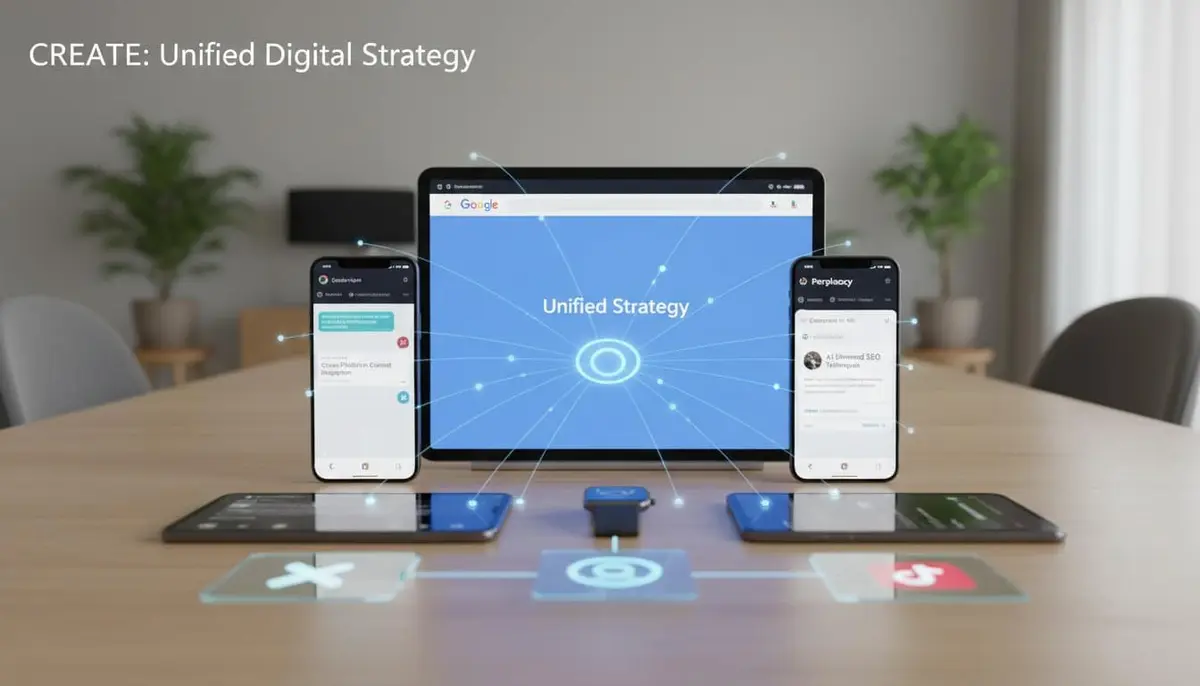
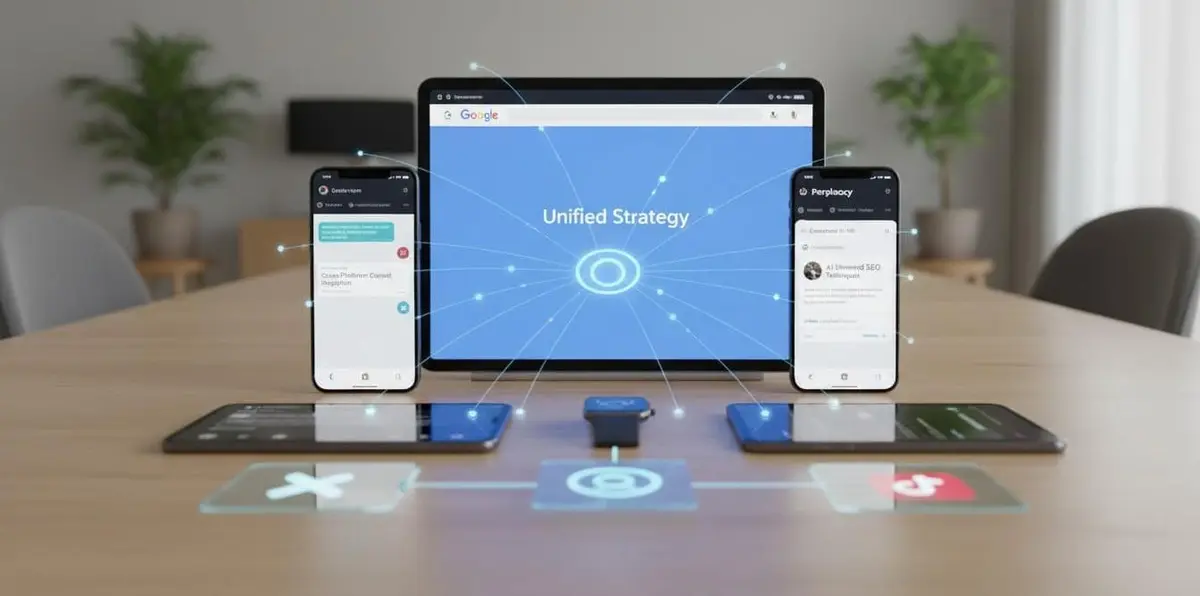
Fix two AI-generated images: a burned-in prompt, and broken Spanish
Swapping the chatbot image turned into an audit, because the candidates
were worse than the picture being replaced.

Every image in the media library matching that post is from one batch of
AI generations, and four of the five carry visible defects. The one in
use is a tablet mockup reading "Hello! How can bo help?" beside "Hola!
/Como pudo ayodrarte" and a line of garbled Japanese. Of the rest, one
is a wireframe robot, one repeats the same broken Spanish, and two have
the prompt label still burned across the top.

Misspelt Spanish on a multilingual SEO site is a worse advert than no
photograph at all, so conversational-ai-chatbots-business now has no
entry in the map and falls back to PostArt, which is exactly the case
that fallback exists for. Reversible in one line when a real photograph
exists, and the file records why rather than leaving a gap.

Checking the batch found a second live page with the same defect.
search-everywhere-strategy carried "CREATE: Unified Digital Strategy"
across its top corner, on every visit, for a post about search strategy.
The label sits on a plain wall above the subject, so it crops off: a new
optional cropTop on BlogImage, applied by fetch-legacy-images.mjs before
the resize, so the derivative stays rebuildable from the source rather
than being a hand-edited file nobody can regenerate. 1344x768 to
1200x596, and the recorded height corrected to match.

The other six images from that batch were checked the same way, top
[…]

diff --git a/mb-master-revamp/site/lib/blog-images.ts b/mb-master-revamp/site/lib/blog-images.ts
@@ -7,10 +7,12 @@
  * post with no entry here, which is what a newly written post gets until
  * a picture is chosen for it.
  *
- * 57 entries for 56 posts: competitor-analysis-traffic-checklist is a
- * hand-built page rather than a post (HAND_BUILT_SLUGS in lib/posts.ts),
- * but it is a cluster pillar, so the journal index renders it beside the
- * others and it needs a picture on the same terms.
+ * 56 entries for 56 posts, which is a coincidence rather than a rule.
+ * competitor-analysis-traffic-checklist is a hand-built page rather than
+ * a post (HAND_BUILT_SLUGS in lib/posts.ts) and is here because it is a
+ * cluster pillar the journal index renders beside the others, while
+ * conversational-ai-chatbots-business is a post that is deliberately
+ * absent. See its note below.
  *
  * `legacy` records where each file came from, relative to
  * https://mikebastin.com/wp-content/uploads/, so the set can be rebuilt
@@ -32,6 +34,19 @@ export type BlogImage = {
   alt: string;
   /** Path under the legacy site's wp-content/uploads/. Provenance only. */
   legacy: string;
+  /**
+   * Pixels to remove from the top of the source before resizing.
+   *
+   * Several of the January 2026 uploads were generated with the prompt
+   * still burned into the image, so searcheverywherestrategy2026.jpg
+   * carries "CREATE: Unified Digital Strategy" across its top corner.
+   * The label sits on a plain wall above the subject, so cropping it off
+   * is a better fix than reaching for a different picture.
+   *
+   * scripts/fetch-legacy-images.mjs applies this, so the derivative can
+   * be rebuilt from the source and still come out clean.
+   */
+  cropTop?: number;
 };
 
 export const BLOG_IMAGES: Record<string, BlogImage> = {
@@ -49,7 +64,15 @@ export const BLOG_IMAGES: Record<string, BlogImage> = {
   "competitor-analysis": { width: 1200, height: 686, alt: "A desk with two open laptops, each showing an analytics dashboard", legacy: "2026/01/competitoranalysis.jpg" },
   "competitor-analysis-traffic-checklist": { width: 1200, height: 686, alt: "A fountain pen resting on a printed checklist, with reading glasses and a monitor showing a traffic dashboard behind", legacy: "2026/01/competitoranalysistrafficcheck.jpg" },
   "content-optimisation-for-spanish-users": { width: 1200, height: 482, alt: "A woman smiling at an outdoor cafe table on a Spanish street", legacy: "2024/10/spanish-users.jpg" },
-  "conversational-ai-chatbots-business": { width: 1200, height: 675, alt: "A tablet in an office showing a chatbot conversation with flags for several languages", legacy: "2026/04/conversational-ai-chatbots-business-practical-uses.webp" },
+  // conversational-ai-chatbots-business has no entry on purpose, so it
+  // falls back to PostArt. Its featured image was an AI-generated tablet
+  // mockup whose visible copy reads "Hello! How can bo help?" and
+  // "Hola! /Como pudo ayodrarte", with garbled Japanese beside it. Every
+  // other candidate in the media library for this post is from the same
+  // batch and no better: one is a wireframe robot, two carry a prompt
+  // label, and one repeats the broken Spanish. Publishing misspelt
+  // Spanish on a multilingual SEO site is worse than publishing no
+  // photograph, so it draws the wave until a real one exists.
   "digital-marketing-advisor": { width: 1200, height: 686, alt: "A man studying a flip chart that compares an advisor model with an agency model", legacy: "2026/01/digitalmarketingadvisoragencyd.jpg" },
   "eeat-vs-aeat-typo": { width: 1200, height: 666, alt: "A cover graphic reading EEAT versus AEAT, the typo that turns an SEO audit into a tax audit", legacy: "2026/01/EEAT-AEAT-1.jpg" },
   "email-marketing-hacks-boosting-open-rates-and-conversions": { width: 1200, height: 489, alt: "A laptop showing one unread email in an inbox, next to a cup of coffee", legacy: "2024/11/Email-Marketing-Hacks.jpg" },
@@ -80,7 +103,7 @@ export const BLOG_IMAGES: Record<string, BlogImage> = {
   "optimising-your-website-for-valencia-based-searches": { width: 1200, height: 504, alt: "Two women at a market stall, with a search box drawn across the photograph", legacy: "2025/01/local-seo-valencia.jpg" },
   "optimising-your-website-for-voice-search": { width: 1200, height: 542, alt: "A woman speaking into the microphone of her phone", legacy: "2024/12/voice-search.jpg" },
   "prompt-engineers": { width: 1000, height: 519, alt: "Hands typing on a laptop set on top of printed plans", legacy: "2025/08/prompt-engineers.jpg" },
-  "search-everywhere-strategy": { width: 1200, height: 686, alt: "A phone, a tablet and a laptop on a table, showing one interface across all three", legacy: "2026/01/searcheverywherestrategy2026.jpg" },
+  "search-everywhere-strategy": { width: 1200, height: 596, alt: "A phone, a tablet and a laptop on a table, showing one interface across all three", legacy: "2026/01/searcheverywherestrategy2026.jpg", cropTop: 100 },
   "seo-in-belgium": { width: 600, height: 338, alt: "A computer keyboard with one key carrying the Belgian flag and another a tick", legacy: "2024/10/Belgium-SEO-1.jpg" },
   "spanish-keyword-localisation": { width: 1200, height: 475, alt: "A search box graphic on a yellow background, filled with keyword tags", legacy: "2024/10/spanish-keyword-research.jpg" },
   "spanish-on-page-seo": { width: 1200, height: 509, alt: "A red Spanish hair comb and fan set against roses", legacy: "2024/10/Spanish-On-Page-SEO.jpg" },
